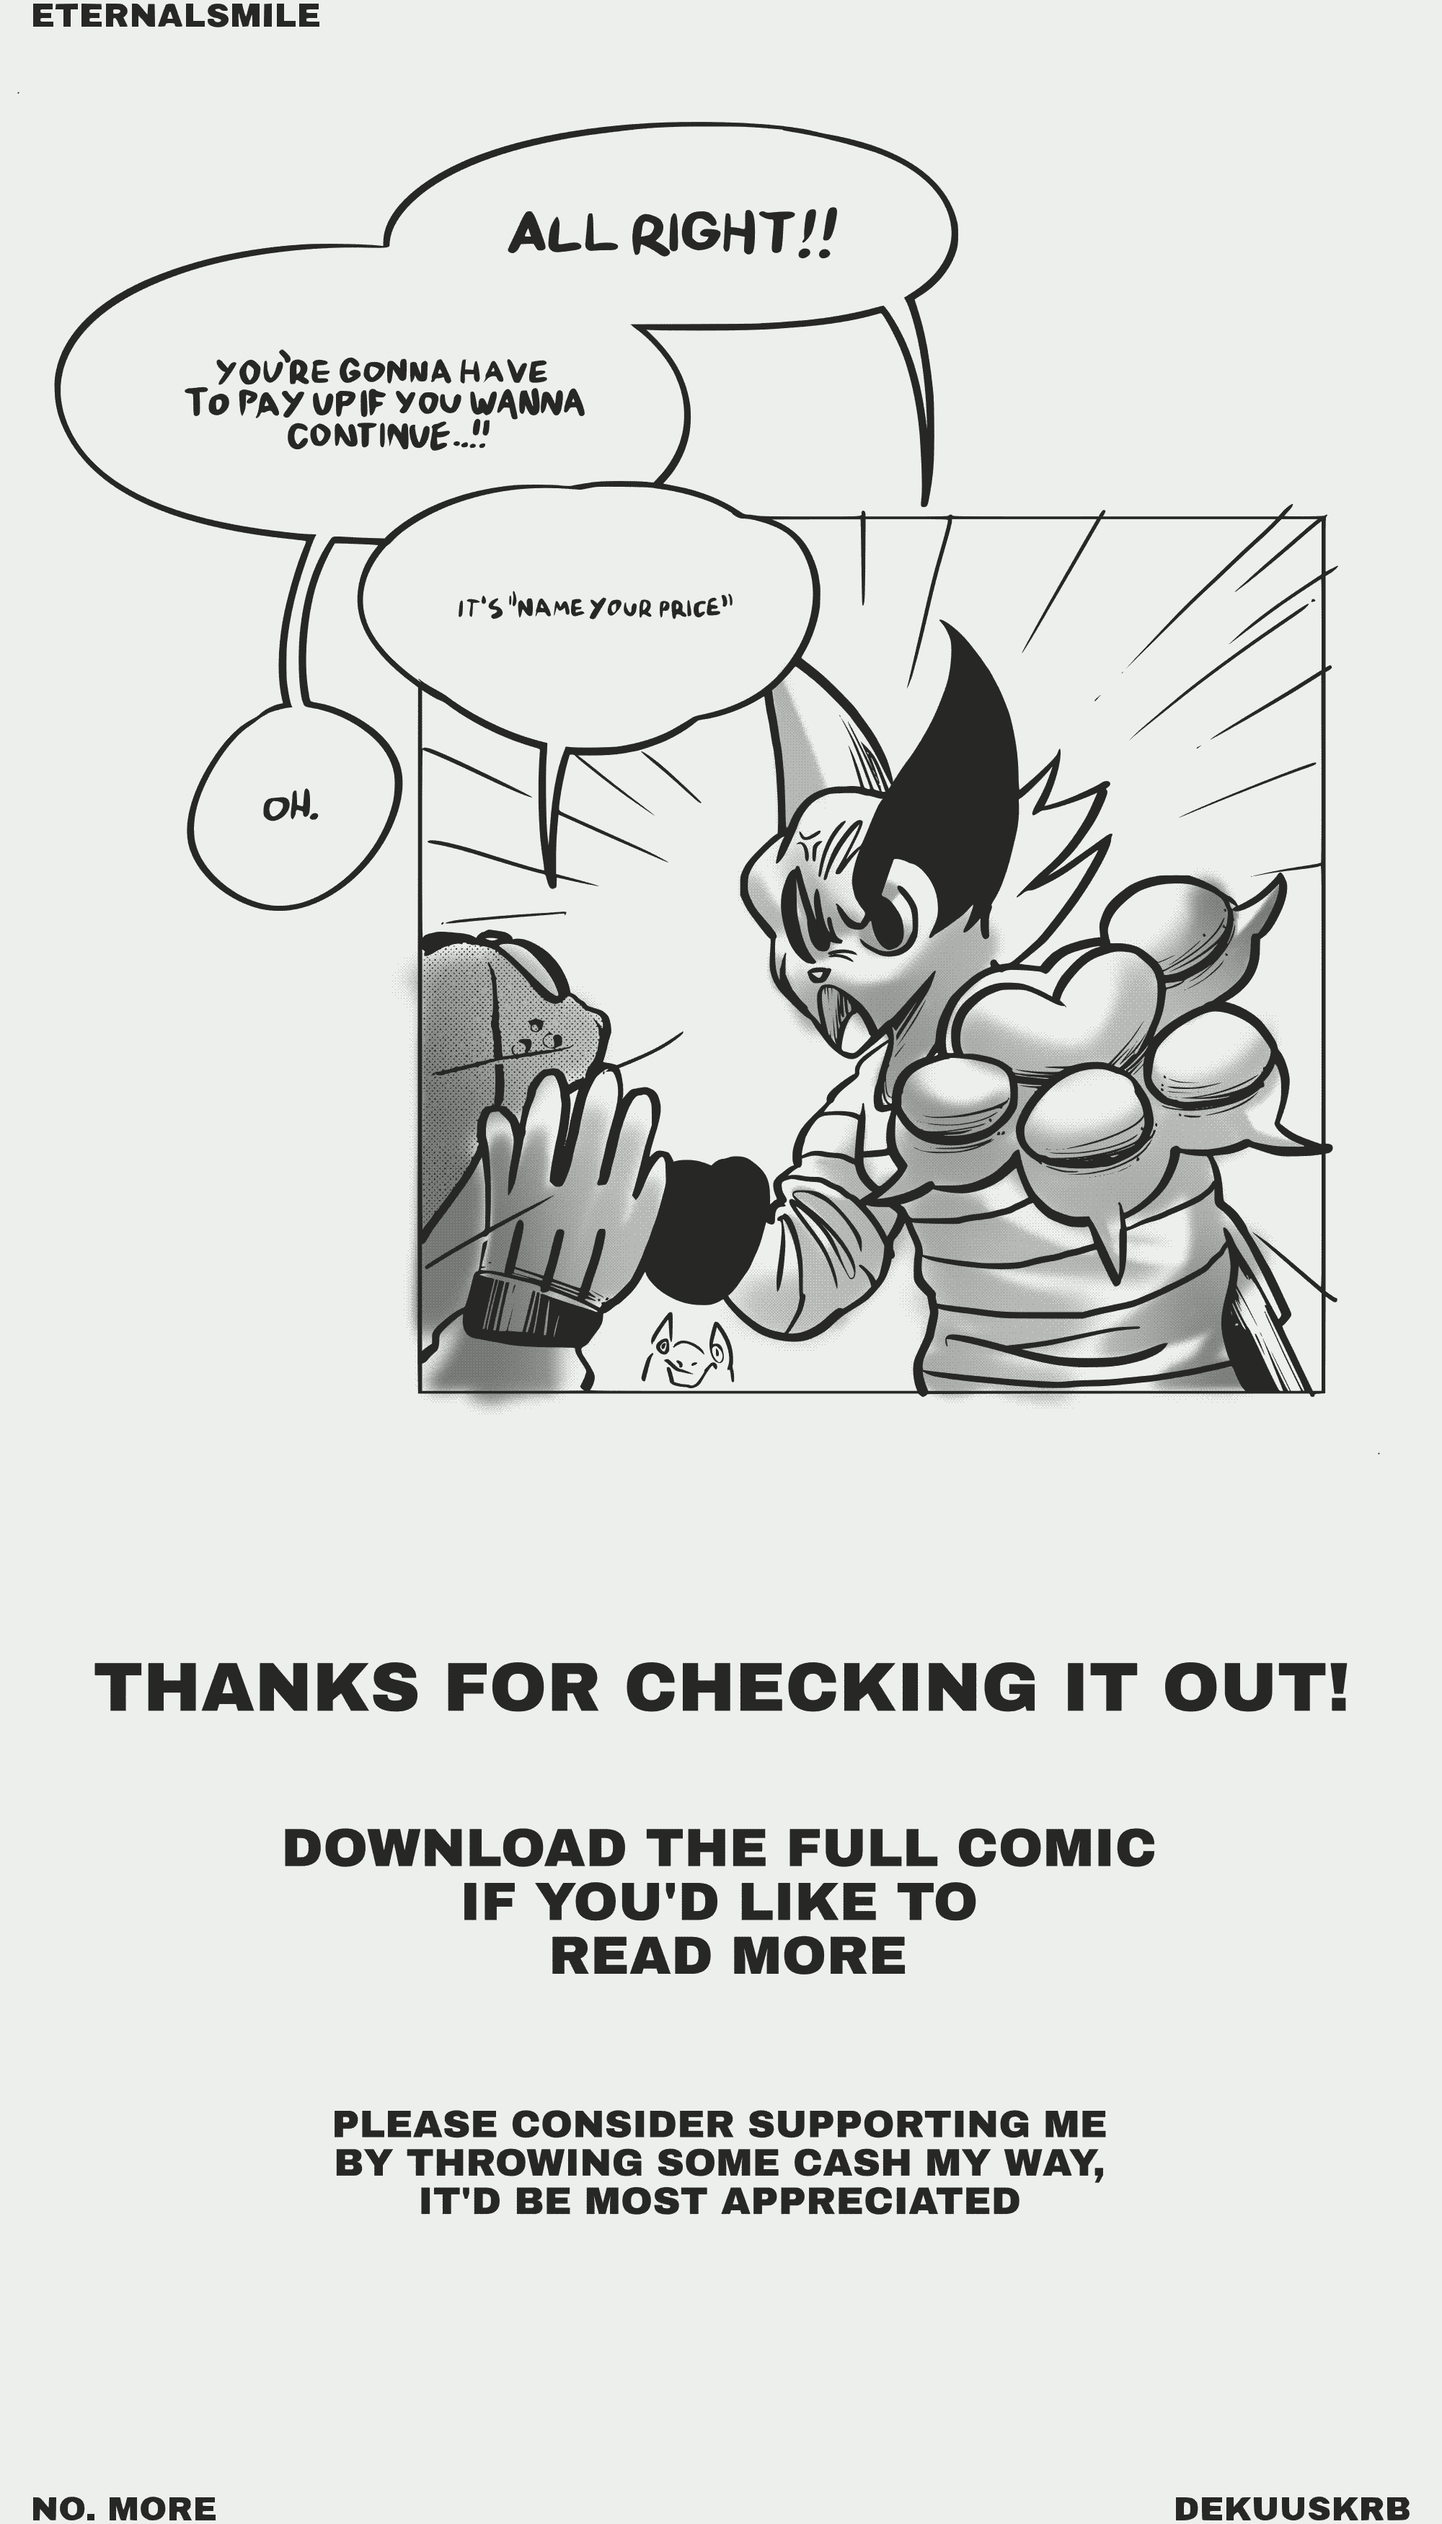
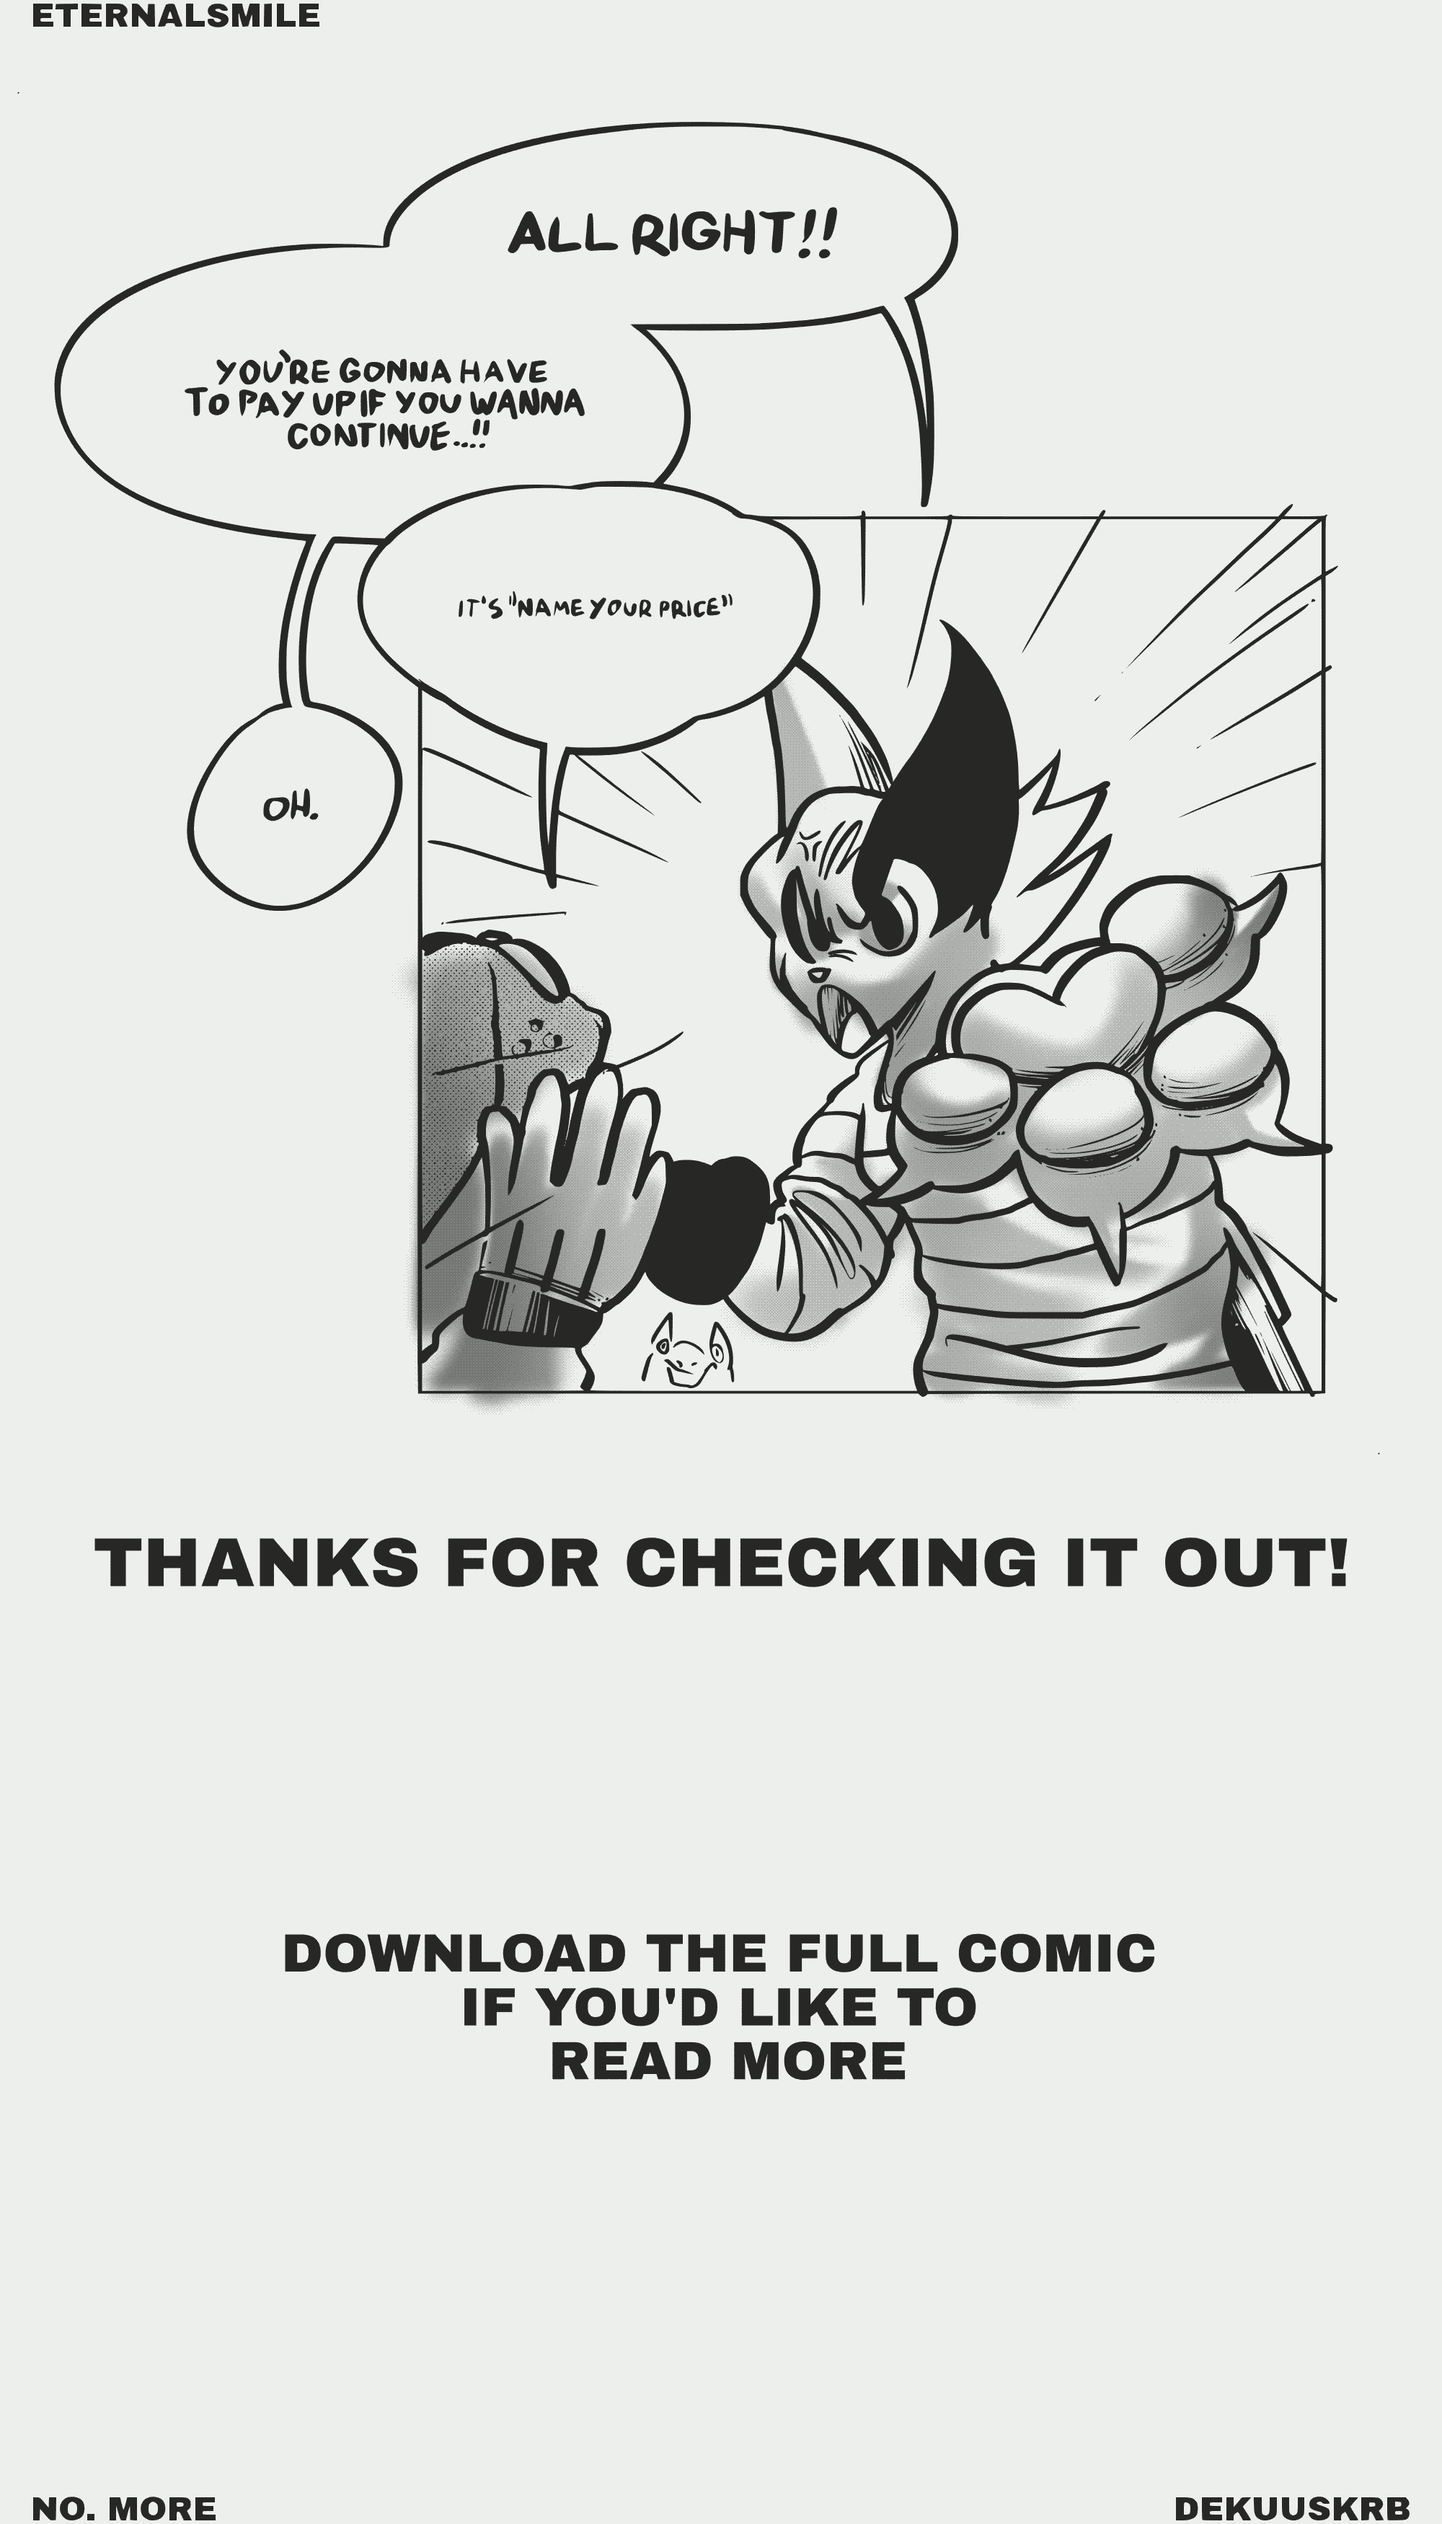
Licenses n shit for index, 1, and 7

Changed region(s): [[0.186, 0.7163, 0.806, 0.9031], [0.062, 0.5917, 0.93, 0.6851], [0.744, 0.5917, 0.775, 0.6229]]

diff --git a/assets/pagetray/7.html b/assets/pagetray/7.html
@@ -51,9 +51,9 @@
 
         <main style="margin: auto; background-color: rgba(255, 255, 255, 0);">
             <nav id="behindContent">
-                <a href="4.html#start"><img id="back3" class="white bg page bgpage dynamicles ani" style="opacity: 0;left: -200%; animation: page-get-out 2s; pointer-events: none;"  src="4r.png" alt="back 3"></a>
-                <a href="5.html#start"><img id="back2" class="white bg page bgpage dynamicles ani" style="opacity: 0;left: -200%; animation: page-get-out 2.5s; pointer-events: none;" src="5r.png" alt="back 2"></a>
-                <a href="6.html#start"><img id="back1" class="white bg page bgpage dynamicles ani" style="opacity: 0;left: -200%; animation: page-get-out 3s; pointer-events: none;" src="6r.png" alt="back 1"></a>
+                <a href="4.html#start"><img id="back3" class="white bg page bgpage dynamicles ani" style="opacity: 0;left: -200%; animation: page-get-out 2s ease-in; pointer-events: none;"  src="4r.png" alt="back 3"></a>
+                <a href="5.html#start"><img id="back2" class="white bg page bgpage dynamicles ani" style="opacity: 0;left: -200%; animation: page-get-out 2.5s ease-in; pointer-events: none;" src="5r.png" alt="back 2"></a>
+                <a href="6.html#start"><img id="back1" class="white bg page bgpage dynamicles ani" style="opacity: 0;left: -200%; animation: page-get-out 3s ease-in; pointer-events: none;" src="6r.png" alt="back 1"></a>
 
                 <a href="8.html#start"><img id="nextpage" class="white bg page bgpage dynamicles ani off" alt="next page" src="8r.png"></a>
             </nav>
@@ -102,6 +102,21 @@
 	</a>
 
    		<article class="under" style="padding-top:20px">
+			<div class="row center" style="max-width: 800px;">  
+				<div>
+					<h3 style="margin-top: 60px;">Download now!</h3>
+					<p style="line-height: 1.75;">
+					Thanks for taking a look at the comic. If you'd like to read more, just download it, unzip, and open "comic.html" with your preferred browser. If you'd like to check out earlier chapters, you can read them on Comicfury.com. I'd like to touch them up before making another collection like this. 
+					</p>
+					<p style="line-height: 1.75;">
+					Again, financial support in any way would be greatly appreciated. I started drawing this comic at the same time my career as a carpenter started for about 3 years now, but for the first time in my career works gone slow. Luckily I was pretty close to being done at the time, so here we are now. Whether or not this gets me through my rut I'll continue until I literally can't anymore - No matter how bad it gets!!!!!
+					</p>
+				</div>
+				<h3 style="padding-top: 150px;">license & permissions</h3>
+			<p>All illustrations present in this collection are licensed under Creative Commons Attribution 4.0 International (<a class="white text" href="https://creativecommons.org/licenses/by/4.0/?ref=chooser-v1" style="opacity: initial;">CC BY 4.0</a>). You are free to copy, remix, redistribute, etc. whether it's for free or commercial purposes; just give the appropriate credit and indicate changes that may have been made.</p>
+			<p>In reference to all files that aren't illustrations, you can copy, modify, and distribute them. For free or commercial purposes, no permission is nesessary.</p>
+			<p style="font-size: smaller; margin-top: 60px;"><a class="white text" href="https://github.com/Jrnyman/eternalsmile-layout/issues">- Report bugs, typos, ect. here</a></p>
+			</div>
 		</article>
 
 		<div id="catch-up"></div>

diff --git a/assets/pagetray/1.html b/assets/pagetray/1.html
@@ -105,7 +105,7 @@
 			<h1>
 				<span><div class="plot banner white bg"></div></span>
 			</h1>
-			<div class="row center">
+			<div class="row center" style="max-width: 800px;">
 				<div style="max-width: 900px">
 						<h3>An easily frightened rabbit and a persistent lizard knocked themselves out after crashing into a seemingly empty building!</h3>
 						<h4 style="margin-top: 40px">How'd that happen? </h4>
@@ -130,6 +130,10 @@
 							<a href="https://dekuuskrb.newgrounds.com/">newgrounds</a>
 						</nav>
 					</div>
+					<h3 style="padding-top: 200px;">license & permissions</h3>
+			<p>All illustrations present in this collection are licensed under Creative Commons Attribution 4.0 International (<a class="white text" href="https://creativecommons.org/licenses/by/4.0/?ref=chooser-v1" style="opacity: initial;">CC BY 4.0</a>). You are free to copy, remix, redistribute, etc. whether it's for free or commercial purposes; just give the appropriate credit and indicate changes that may have been made.</p>
+			<p>In reference to all files that aren't illustrations, you can copy, modify, and distribute them. For free or commercial purposes, no permission is nesessary.</p>
+			<p style="font-size: smaller; margin-top: 60px;"><a class="white text" href="https://github.com/Jrnyman/eternalsmile-layout/issues">- Report bugs, typos, ect. here</a></p>
 			</div>
 		</article>
 
@@ -140,7 +144,7 @@
 			</a>
 			<h1 class="center" style="font-size:35px;">comments:</h1>
 		</div>
-		<div id="dummythang" style="height:500px;"></div>
+		<div id="dummythang" style="height:200px;"></div>
 		<footer class="light grey text center fancyText flexify not row">
 			<nav class="divided hosted" style="margin-bottom: 12px;" >
 				<a href="../../index.html">RSS</a>

diff --git a/index.html b/index.html
@@ -105,7 +105,7 @@
 			<h1>
 				<span><div class="plot banner white bg"></div></span>
 			</h1>
-			<div class="row center">
+			<div class="row center" style="max-width: 800px;">
 				<div style="max-width: 900px">
 						<h3>An easily frightened rabbit and a persistent lizard knocked themselves out after crashing into a seemingly empty building!</h3>
 						<h4 style="margin-top: 40px">How'd that happen? </h4>
@@ -130,6 +130,10 @@
 							<a href="https://dekuuskrb.newgrounds.com/">newgrounds</a>
 						</nav>
 					</div>
+					<h3 style="padding-top: 200px;">license & permissions</h3>
+			<p>All illustrations present in this collection are licensed under Creative Commons Attribution 4.0 International (<a href="https://creativecommons.org/licenses/by/4.0/?ref=chooser-v1" style="opacity: initial;" class="white text">CC BY 4.0</a>). You are free to copy, remix, redistribute, etc. whether it's for free or commercial purposes; just give the appropriate credit and indicate changes that may have been made.</p>
+			<p>In reference to all files that aren't illustrations, you can copy, modify, and distribute them. For free or commercial purposes, no permission is nesessary.</p>
+			<p style="font-size: smaller; margin-top: 60px;"><a class="white text" href="https://github.com/Jrnyman/eternalsmile-layout/issues">- Report bugs, typos, ect. here</a></p>
 			</div>
 		</article>
 
@@ -140,7 +144,7 @@
 			</a>
 			<h1 class="center" style="font-size:35px;">comments:</h1>
 		</div>
-		<div id="dummythang" style="height:500px;"></div>
+		<div id="dummythang" style="height:200px;"></div>
 		<footer class="light grey text center fancyText flexify not row">
 			<nav class="divided hosted" style="margin-bottom: 12px;" >
 				<a href="../../index.html">RSS</a>

diff --git a/assets/style-itch.css b/assets/style-itch.css
@@ -671,6 +671,6 @@ body#chapter-select-page article * a {color: rgb(var(--white)); opacity: 0.7;}
 @keyframes page-come-in-BOTTOM {0% {transform: translateY(40%);}}
 @keyframes batch-come-in {0% {transform: translateX(-10%);}}
 
-@keyframes page-get-out {0%{left: 0; opacity:1;} 30%{opacity: 0;}}
+@keyframes page-get-out {0%{left: 0; opacity:1;} 25%{opacity: 0;}}
 
 @keyframes  cursor-a {50% {transform: translateX(-15px);} 100% {transform: translateX(0);}
